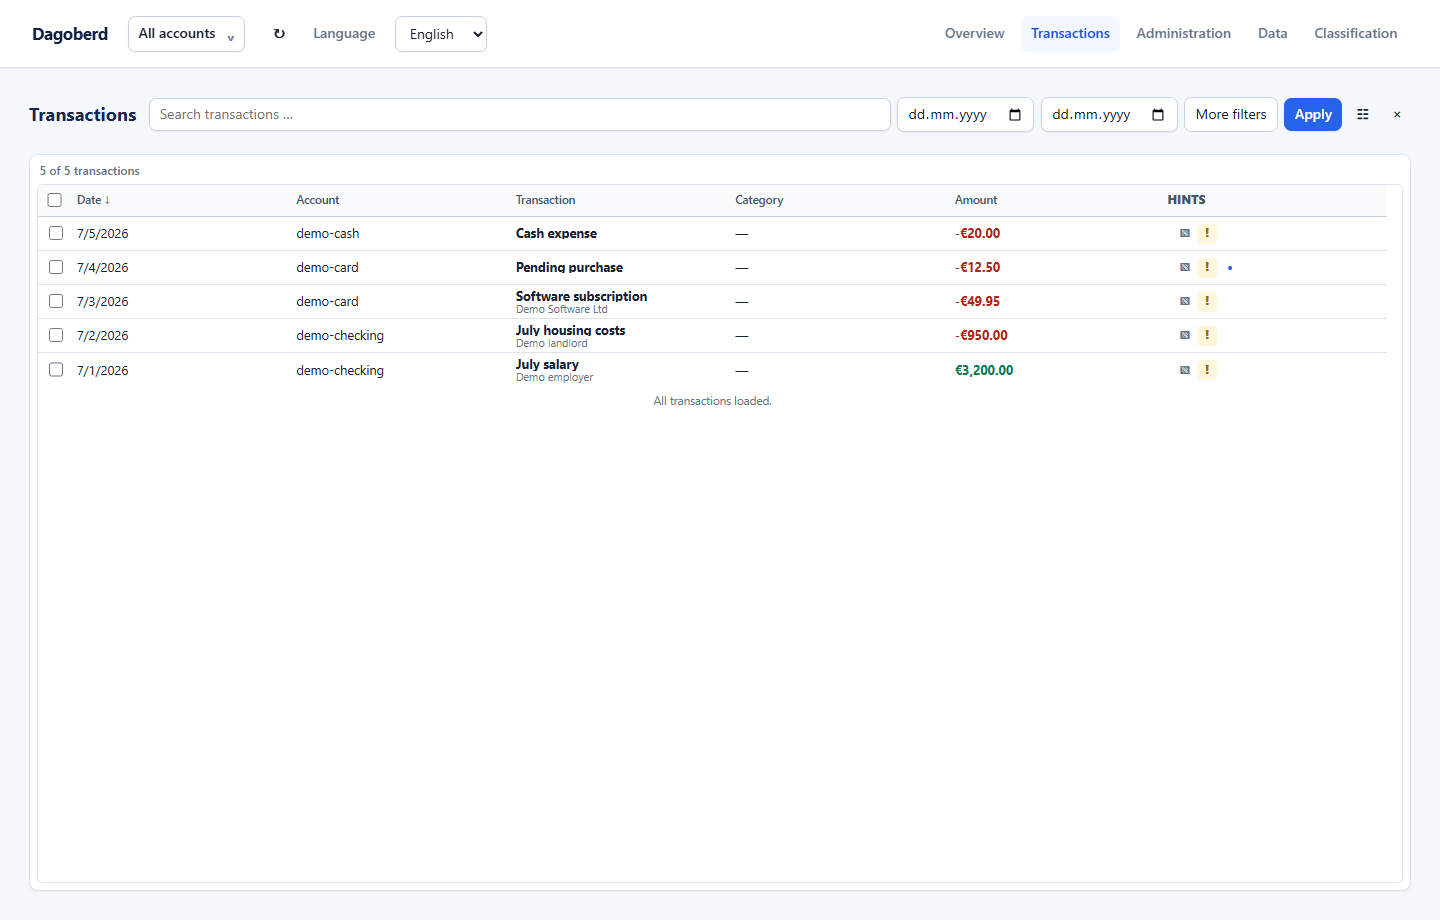
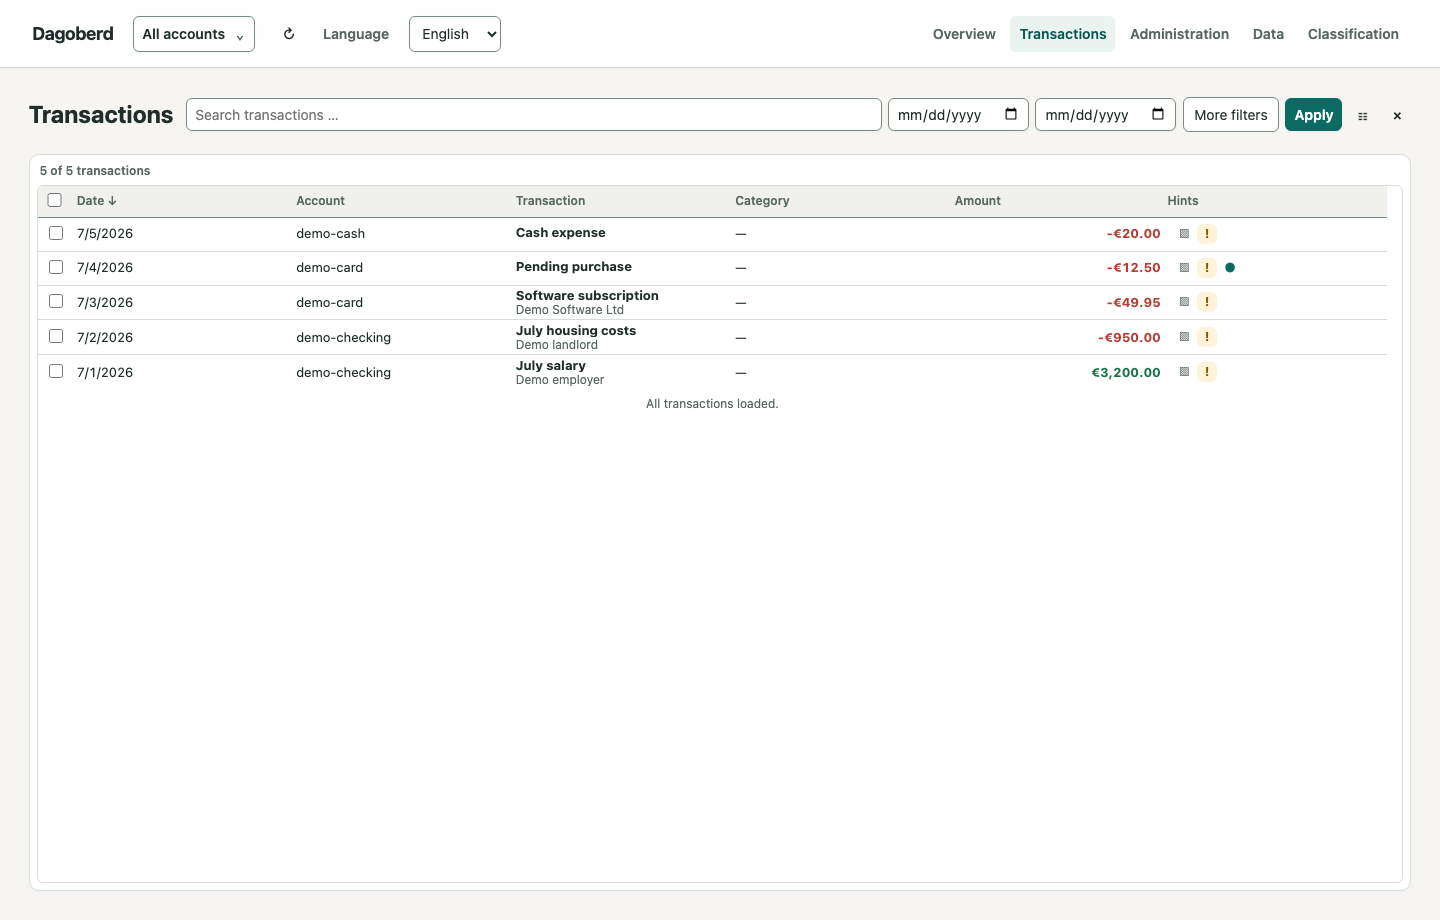
Fix design system layout edge cases and refresh demo screenshot

diff --git a/src/dagoberd/gui/static/dashboard.css b/src/dagoberd/gui/static/dashboard.css
@@ -368,13 +368,11 @@
 }
 
 .account-table {
-  table-layout: fixed;
+  table-layout: auto;
 }
 
-.account-table th:nth-child(1) { width: 38%; }
-.account-table th:nth-child(2) { width: 21%; }
-.account-table th:nth-child(3) { width: 23%; }
-.account-table th:nth-child(4) { width: 18%; }
+.account-table th:first-child { min-width: 9rem; }
+.account-table .link-button { max-width: 18rem; }
 
 .account-table th {
   color: var(--muted);
@@ -552,7 +550,4 @@
     display: none;
   }
 
-  .account-table th:nth-child(1) { width: 46%; }
-  .account-table th:nth-child(2) { width: 29%; }
-  .account-table th:nth-child(4) { width: 25%; }
 }

diff --git a/src/dagoberd/gui/static/app.css b/src/dagoberd/gui/static/app.css
@@ -596,6 +596,10 @@ embed.preview {
   border-top: 1px solid var(--border);
 }
 
+.document-card h3 {
+  overflow-wrap: anywhere;
+}
+
 @media (max-width: 1200px) {
   .transaction-workspace {
     grid-template-columns: minmax(0, 1fr) minmax(21rem, 24rem);

diff --git a/src/dagoberd/gui/static/grid.css b/src/dagoberd/gui/static/grid.css
@@ -356,10 +356,6 @@ tr.selected .status-icon.more {
   display: none;
 }
 
-.compact-inspector {
-  border-radius: var(--radius-control);
-}
-
 .compact-inspector > header,
 .bulk-inspector-actions {
   display: flex;

diff --git a/tests/browser/test_design_system.py b/tests/browser/test_design_system.py
@@ -190,3 +190,90 @@ def test_reports_share_components_work_offline_and_print(page, design_workspace,
         expect(page.locator("#transactions-visible-count")).to_have_text(
             "1 of 2 transactions visible"
         )
+
+
+@pytest.mark.parametrize("language", ["en", "de", "es"])
+@pytest.mark.parametrize("width", [320, 800, 1280])
+def test_account_amounts_fit_cells_and_scroll_without_page_overflow(
+    page, design_workspace, language, width
+):
+    base, _, _, account_id = design_workspace
+    page.set_viewport_size({"width": width, "height": 900})
+    page.add_init_script(f"localStorage.setItem('dagoberd.gui-language', '{language}')")
+
+    def large_amounts(route):
+        response = route.fetch()
+        payload = response.json()
+        payload["data"]["accounts"][0]["balance_minor"] = 123456789012
+        payload["data"]["accounts"][0]["period_change_minor"] = -9876543210
+        route.fulfill(json=payload)
+
+    page.route("**/api/dashboard?*", large_amounts)
+    page.goto(base + f"?account={account_id}#t=design-token")
+    amounts = page.locator(".account-table tbody td.amount")
+    expect(amounts).to_have_count(2)
+    assert amounts.evaluate_all("""nodes => nodes.every(node => {
+        const range = document.createRange();
+        range.selectNodeContents(node);
+        const text = range.getBoundingClientRect();
+        const cell = node.getBoundingClientRect();
+        return text.left >= cell.left - 1 && text.right <= cell.right + 1;
+    })""")
+    expected = page.evaluate(
+        """language => [
+        new Intl.NumberFormat(language, {style:'currency',currency:'EUR'}).format(1234567890.12),
+        new Intl.NumberFormat(language, {style:'currency',currency:'EUR'}).format(-98765432.10)
+    ]""",
+        language,
+    )
+    assert amounts.all_text_contents() == expected
+    assert page.evaluate("document.documentElement.scrollWidth <= innerWidth")
+    if width == 320:
+        assert page.locator(".account-groups").evaluate(
+            "node => node.scrollWidth > node.clientWidth"
+        )
+        page.locator(".account-groups").evaluate("node => node.scrollLeft = node.scrollWidth")
+        assert page.locator(".account-groups").evaluate("node => node.scrollLeft > 0")
+
+
+@pytest.mark.parametrize("width", [320, 800, 1280])
+def test_long_document_filename_wraps_without_page_overflow(page, design_workspace, width):
+    base, _, _, account_id = design_workspace
+    page.set_viewport_size({"width": width, "height": 900})
+    filename = "a" * 100 + ".pdf"
+    page.route(
+        "**/api/documents",
+        lambda route: route.fulfill(
+            json={
+                "ok": True,
+                "data": [
+                    {
+                        "id": "synthetic-document",
+                        "filename": filename,
+                        "status": "open",
+                        "amount_minor": None,
+                        "document_date": None,
+                    }
+                ],
+            }
+        ),
+    )
+    page.goto(base + f"?account={account_id}&tab=data#t=design-token")
+    heading = page.locator(".document-card h3")
+    expect(heading).to_have_text(filename)
+    assert heading.evaluate("node => node.scrollWidth <= node.clientWidth")
+    assert page.evaluate("document.documentElement.scrollWidth <= innerWidth")
+
+
+def test_inspector_uses_card_radius_and_keeps_docked_mobile_layout(page, design_workspace):
+    base, _, _, account_id = design_workspace
+    page.set_viewport_size({"width": 1280, "height": 900})
+    page.goto(base + f"?account={account_id}&tab=transactions#t=design-token")
+    expect(page.locator("#transaction-body tr")).to_have_count(2)
+    page.locator("#transaction-body tr .selection-column input").first.check()
+    page.get_by_role("button", name="Edit selected", exact=True).click()
+    inspector = page.locator("#detail")
+    expect(inspector).to_be_visible()
+    assert inspector.evaluate("node => getComputedStyle(node).borderRadius") == "10px"
+    page.set_viewport_size({"width": 800, "height": 900})
+    assert inspector.evaluate("node => getComputedStyle(node).borderRadius") == "0px"
